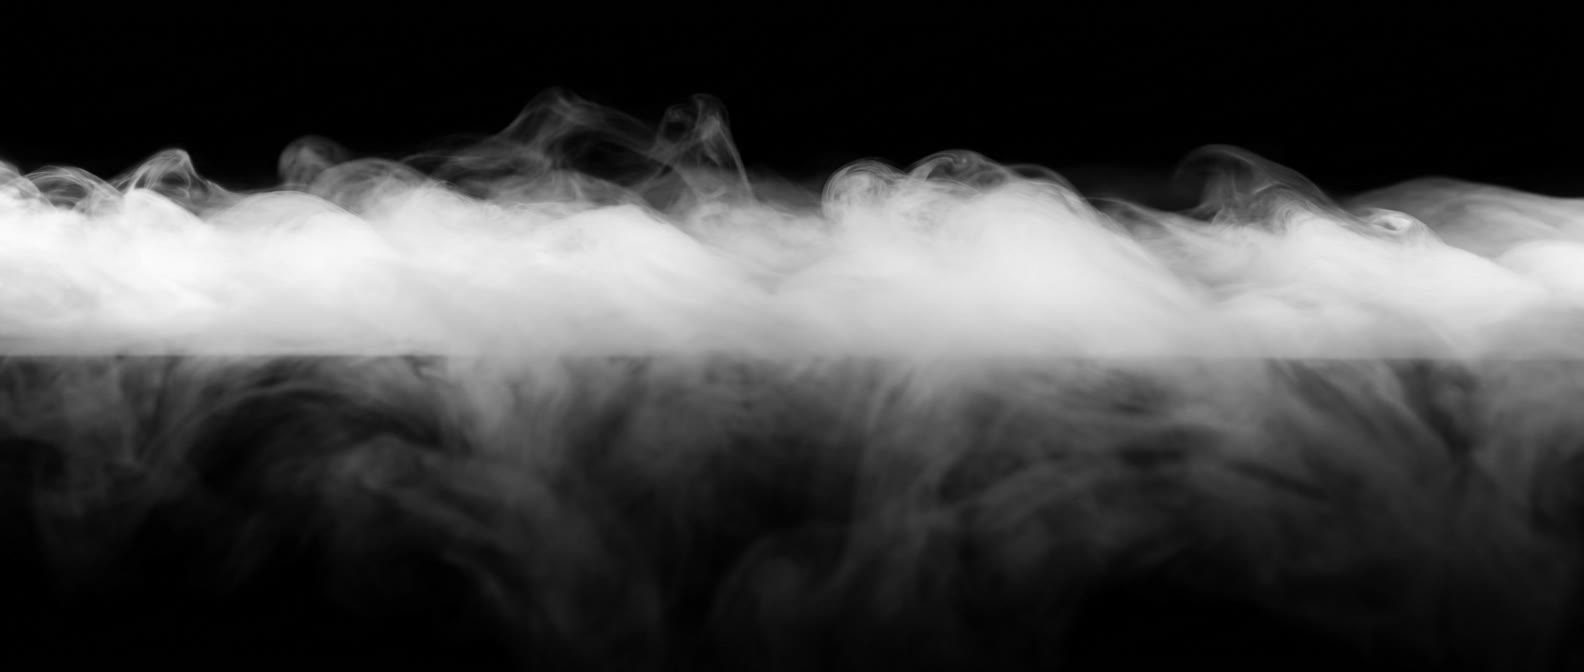
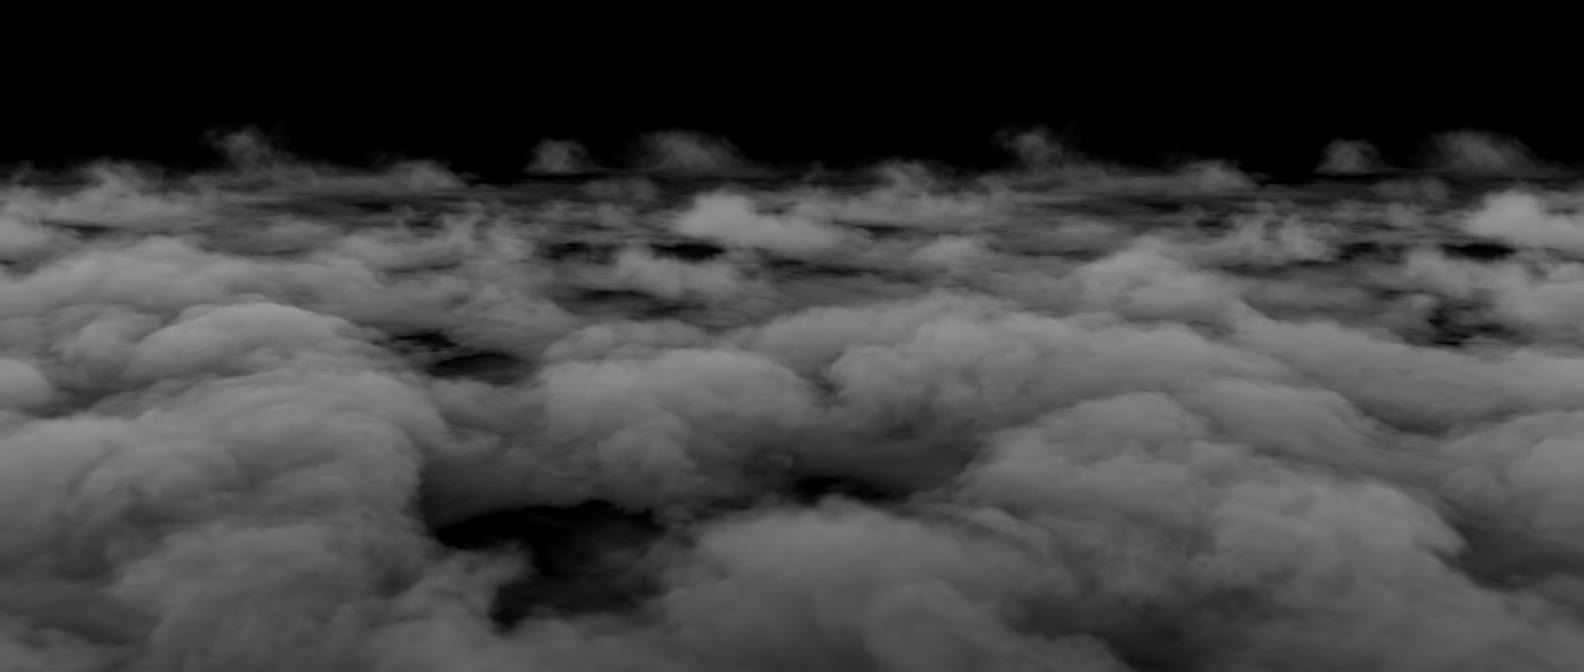
landing: patchy fog seen from above, no bright line (owner's reference)
The owner rejected the bright band. The new Runway texture was made from
their reference photo (20 credits, 25 left; provenance updated): a patchy,
billowing fog surface, densest at the front, thinning to a soft far edge a
little above the trunk's base. Laid as ground (two passes plus a copy behind
the tree), drifting right to left. Tiles are joined once on an offscreen
strip at whole pixels and slid fractionally: no seams, steady 60 fps. A dark
text shadow keeps the phone line and the scroll cue readable over the fog.

Gates: browser 57/57, consistency PASS, lint:tokens PASS.

Claude-Session: https://claude.ai/code/session_01DGkoQXY2t3W7YECCS84kUu

diff --git a/client/src/components/Fog.jsx b/client/src/components/Fog.jsx
@@ -26,10 +26,9 @@ import { prefersReducedMotion } from '../lib/motion.js'
  * tree's height (a sixth of it).
  */
 const SRC = '/assets/fog/ground-fog.jpg'
-// where the band sits in the texture, as fractions of its height
-const BAND_CORE = 0.42
-const SEA_FROM = 0.55
-const EDGE = 0.53 // the hard line under the band, softened in `tint`
+// where the fog surface starts in the texture (its soft far edge), as a
+// fraction of the texture's height; below that it fills to the bottom
+const FAR_EDGE = 0.22
 
 function tint(img, colour) {
   const c = document.createElement('canvas')
@@ -40,31 +39,17 @@ function tint(img, colour) {
   const data = g.getImageData(0, 0, c.width, c.height)
   const px = data.data
   const [r, gr, b] = colour.split(/\s+/).map(Number)
-  // the texture has a hard horizontal edge under the band: blend it away with
-  // a vertical blur that is strongest on that edge and fades out either side
   const w = c.width; const h = c.height
-  const edge = Math.round(h * EDGE); const reach = Math.round(h * 0.16); const rad = Math.round(h * 0.08)
-  const src = new Float32Array(w * h)
-  for (let i = 0; i < w * h; i += 1) src[i] = px[i * 4] / 255
-  const lumAt = new Float32Array(src)
-  for (let y = Math.max(rad, edge - reach); y < Math.min(h - rad, edge + reach); y += 1) {
-    const d = Math.abs(y - edge) / reach
-    const mix = (1 - d) * (1 - d) * (3 - 2 * (1 - d)) // smooth, 1 on the edge
-    for (let x = 0; x < w; x += 1) {
-      let sum = 0
-      for (let k = -rad; k <= rad; k += 1) sum += src[(y + k) * w + x]
-      lumAt[y * w + x] = src[y * w + x] * (1 - mix) + (sum / (2 * rad + 1)) * mix
-    }
-  }
-  // and its top and bottom fade to nothing, so no layer ends on a straight line
+  // its top and sides of the far edge fade to nothing, so no layer ends on a
+  // straight line; the bottom stays full, the nearest fog is the densest
   const ramp = (y) => {
-    const top = Math.min(1, y / (h * 0.06))
-    const bottom = Math.min(1, (h - y) / (h * 0.3))
+    const top = Math.min(1, Math.max(0, (y - h * (FAR_EDGE - 0.12)) / (h * 0.2)))
+    const bottom = 1
     const v = Math.min(top, bottom)
     return v * v * (3 - 2 * v)
   }
   for (let i = 0; i < px.length; i += 4) {
-    const lum = lumAt[i / 4] * ramp(Math.floor(i / 4 / w))
+    const lum = (px[i] / 255) * ramp(Math.floor(i / 4 / w))
     px[i] = r; px[i + 1] = gr; px[i + 2] = b
     px[i + 3] = Math.round(255 * Math.min(1, lum * 1.15))
   }
@@ -119,21 +104,36 @@ export default function Fog({ ground: groundDefault = 0.72, floor = null, stage 
       canvas.width = Math.round(W * SCALE)
       canvas.height = Math.round(H * SCALE)
       ctx.setTransform(SCALE, 0, 0, SCALE, 0, 0)
+      strips.clear()
     }
 
-    // one strip of mirrored tiles, scrolled left by `offset` px
-    const strip = (sx, sy, sw, sh, dy, dh, offset, alpha) => {
+    // A strip of mirrored tiles, joined ONCE on an offscreen canvas at whole
+    // pixels (no gap, no overlap: on see-through fog either shows as a line),
+    // then slid as one image by fractional amounts, so the drift stays smooth.
+    // Built per size and kept until the next resize.
+    const strips = new Map()
+    const buildStrip = (sx, sw, dh) => {
+      const key = `${sx}|${sw}|${Math.round(dh)}`
+      if (strips.has(key)) return strips.get(key)
       const [a, b] = tiles
-      const dw = dh * (sw / sh)
-      const period = dw * 2
-      let x = -(offset % period)
-      let i = 0
-      ctx.globalAlpha = alpha
-      while (x < W) {
-        if (x + dw > 0) ctx.drawImage(i % 2 ? b : a, i % 2 ? a.width - sx - sw : sx, sy, sw, sh, x, dy, dw + 1, dh) // 1px overlap: no hairline at the joins
-        x += dw
-        i += 1
+      const tilePx = Math.max(1, Math.round(dh * (sw / a.height) * SCALE))
+      const hPx = Math.max(1, Math.round(dh * SCALE))
+      const count = Math.ceil((W * SCALE) / tilePx) + 3
+      const c = document.createElement('canvas')
+      c.width = tilePx * (count + (count % 2))
+      c.height = hPx
+      const g = c.getContext('2d')
+      for (let i = 0; i * tilePx < c.width; i += 1) {
+        g.drawImage(i % 2 ? b : a, i % 2 ? a.width - sx - sw : sx, 0, sw, a.height, i * tilePx, 0, tilePx, hPx)
       }
+      const made = { c, period: (tilePx * 2) / SCALE }
+      strips.set(key, made)
+      return made
+    }
+    const strip = (sx, sw, dy, dh, offset, alpha) => {
+      const { c, period } = buildStrip(sx, sw, dh)
+      ctx.globalAlpha = alpha
+      ctx.drawImage(c, -(offset % period), dy, c.width / SCALE, dh)
     }
 
     const draw = () => {
@@ -143,40 +143,34 @@ export default function Fog({ ground: groundDefault = 0.72, floor = null, stage 
       const iw = a.width; const ih = a.height
       const gy = H * ground
       const k = Math.min(1, fadeIn)
-      // the band: its bright core on the ground line, a sixth of the tree tall
-      const bandH = span * 4.2
-      const bandTop = gy - bandH * BAND_CORE
-      const speed = (stageW / 600) * 14 // px a second
+      // the fog is a surface lying on the ground: its soft far edge a little
+      // above the line where the trunk meets the ground, its densest part at
+      // the bottom of the screen. No band, no line (owner, 2026-10-21).
+      const farY = gy - span * 0.8
+      const hImg = (H - farY) / (1 - FAR_EDGE)
+      const top = H - hImg
+      const speed = (stageW / 600) * 12 // px a second
+      // trim a few columns off each side: the texture's own edge columns are
+      // a touch lighter, and would show as seams where the tiles meet
+      const sx = Math.round(iw * 0.006); const sw = iw - sx * 2
       if (layer === 'back') {
-        strip(0, 0, iw, ih, bandTop, bandH, t * speed, 0.9 * k)
+        strip(sx, sw, top, hImg, t * speed, 0.8 * k)
         ctx.globalAlpha = 1
         return
       }
-      // the sea below: bigger, dimmer, nearer, so it moves faster
-      const seaTop = gy + span * 0.3
-      const seaH = Math.max(H - seaTop, span) * 1.25
-      strip(0, ih * SEA_FROM, iw, ih * (1 - SEA_FROM), seaTop, seaH, t * speed * 1.7 + 400, 0.55 * k)
-      // feather the sea's top so it melts into the band instead of starting
-      // on a straight line
-      ctx.globalAlpha = 1
-      ctx.globalCompositeOperation = 'destination-out'
-      const fh = seaH * 0.3
-      const fg = ctx.createLinearGradient(0, seaTop, 0, seaTop + fh)
-      fg.addColorStop(0, 'rgb(0 0 0 / 1)')
-      fg.addColorStop(1, 'rgb(0 0 0 / 0)')
-      ctx.fillStyle = fg
-      ctx.fillRect(0, seaTop - 1, W, fh + 1)
-      ctx.globalCompositeOperation = 'source-over'
-      strip(0, 0, iw, ih, bandTop, bandH, t * speed, 0.85 * k)
+      // two passes of the same surface for depth: a fainter, larger one that
+      // moves faster (nearer), under the main one
+      strip(sx, sw, top + hImg * 0.08, hImg * 1.15, t * speed * 1.6 + 500, 0.35 * k)
+      strip(sx, sw, top, hImg, t * speed, 0.9 * k)
       // thinner in front of the trunk, so the tree stays readable
       ctx.globalAlpha = 1
       ctx.globalCompositeOperation = 'destination-out'
       const rx = Math.max(40, stageW * 0.12)
-      const g = ctx.createRadialGradient(trunkX, gy - span * 0.4, 0, trunkX, gy - span * 0.4, rx)
-      g.addColorStop(0, 'rgb(0 0 0 / 0.45)')
+      const g = ctx.createRadialGradient(trunkX, gy - span * 0.3, 0, trunkX, gy - span * 0.3, rx)
+      g.addColorStop(0, 'rgb(0 0 0 / 0.5)')
       g.addColorStop(1, 'rgb(0 0 0 / 0)')
       ctx.fillStyle = g
-      ctx.fillRect(trunkX - rx, gy - span * 0.4 - rx, rx * 2, rx * 2)
+      ctx.fillRect(trunkX - rx, gy - span * 0.3 - rx, rx * 2, rx * 2)
       ctx.globalCompositeOperation = 'source-over'
     }
 

diff --git a/client/src/styles/screens/landing.css b/client/src/styles/screens/landing.css
@@ -211,6 +211,7 @@
 .landing-fog-back { z-index: 1; opacity: 0.85; }
 
 .landing-cue {
+  text-shadow: 0 1px 2px rgb(8 12 10 / 0.9), 0 0 14px rgb(8 12 10 / 0.8);
   position: absolute;
   left: 50%;
   bottom: var(--sw-space-6);
@@ -329,4 +330,5 @@
   /* on a phone the line and the action sit in the fog sea, so they ride
      above it to stay readable */
   .landing-side { z-index: 5; }
+  .landing-line { color: var(--sw-dusk-ink); text-shadow: 0 1px 2px rgb(8 12 10 / 0.9), 0 0 18px rgb(8 12 10 / 0.85); }
 }

diff --git a/docs/01 ADR/all-ADRs/SW-ADR-159.md b/docs/01 ADR/all-ADRs/SW-ADR-159.md
@@ -82,6 +82,15 @@ The owner rejected the bright poster atmosphere ("that fog and the sun") and ask
      second copy of the band sits behind the tree, so the trunk rises out of it. On a phone the line
      and the action ride above the fog. Measured at a steady 60 frames a second on desktop and phone
      sizes, worst frame 16.8ms. The procedural clumps are gone.
+   - **Revised the same night, owner 2026-10-21.** The owner rejected the bright band ("no sharp
+     line... do not make a sharp very dense fog line"). They wanted fog seen from above: a patchy,
+     billowing surface lying on the ground, densest at the front and thinning to a soft far edge a
+     little above the trunk's base, as in their reference photos. A second Runway texture was made
+     from their reference (20 credits, 25 left) and replaces the first in `ground-fog.jpg`. It is
+     laid as a ground surface, far edge at the trunk, densest at the bottom edge, in two passes for
+     depth plus a copy behind the tree. The tiles are joined once on an offscreen strip at whole
+     pixels and slid by fractional amounts: seamless and smooth, a steady 60 fps. On a phone the
+     line under the tree carries a dark text shadow so it reads over the fog.
    - The tree's own mist, sun, orbits and spark stars are off here. Its motes are faint ivory dust.
 5. **Below the fold.**
    - Four plain statements about what the product does, plus a closing call to action.
